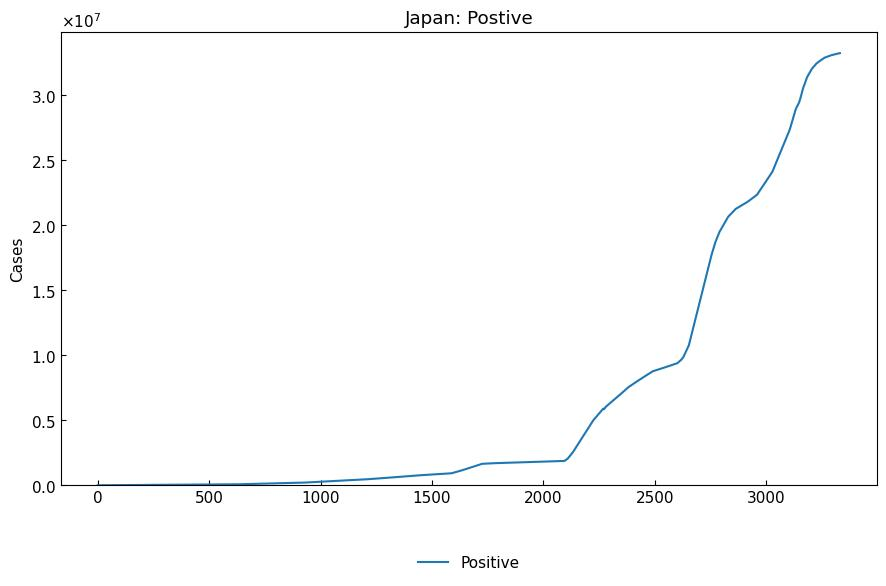
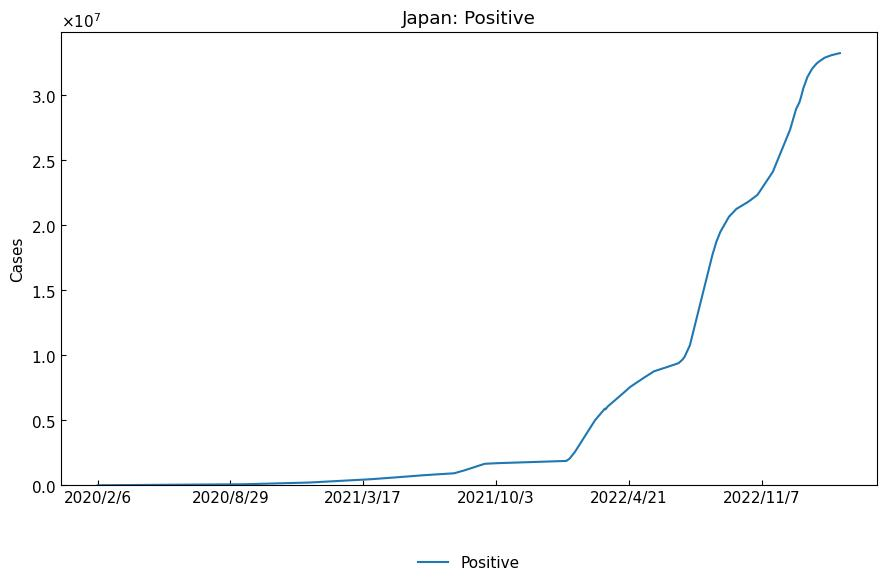
fix errors of pull request #1386

diff --git a/data/vaccine_data.py b/data/vaccine_data.py
@@ -203,12 +203,12 @@ def main():
     japan_directory = Path(__file__).resolve().parent / "japan"
     j = JapanData(directory=japan_directory)
     updated_df = j.uppdate_vaccine_data()
-    df = updated_df.loc[updated_df["Location"] == "Domestic"]
+    df = updated_df.loc[updated_df["Location"] == "Domestic"].set_index("Date")
     print(df.tail())
     # Postive
     cs.line_plot(
         df[["Positive"]],
-        title="Japan: Postive",
+        title="Japan: Positive",
         filename=japan_directory / "positive.jpg",
     )
     # Hosp_severe, Fatal
@@ -218,11 +218,13 @@ def main():
         filename=japan_directory / "severe_fatal.jpg",
     )
     # Vaccinated
-    cs.line_plot(
-        df[["Vaccinated_1st", "Vaccinated_2nd", "Vaccinated_3rd", "Vaccinated_4th", "Vaccinated_5th"]],
-        title="Japan: Vaccinated",
-        filename=japan_directory / "vaccinated.jpg",
-    )
+    with cs.LinePlot(filename=japan_directory / "vaccinated.jpg") as lp:
+        lp.title = "Japan: Vaccinated"
+        lp.plot(
+            df[["Vaccinated_1st", "Vaccinated_2nd", "Vaccinated_3rd", "Vaccinated_4th", "Vaccinated_5th"]],
+            figsize=(10, 6),
+        )
+        
 
 
 if __name__ == "__main__":
